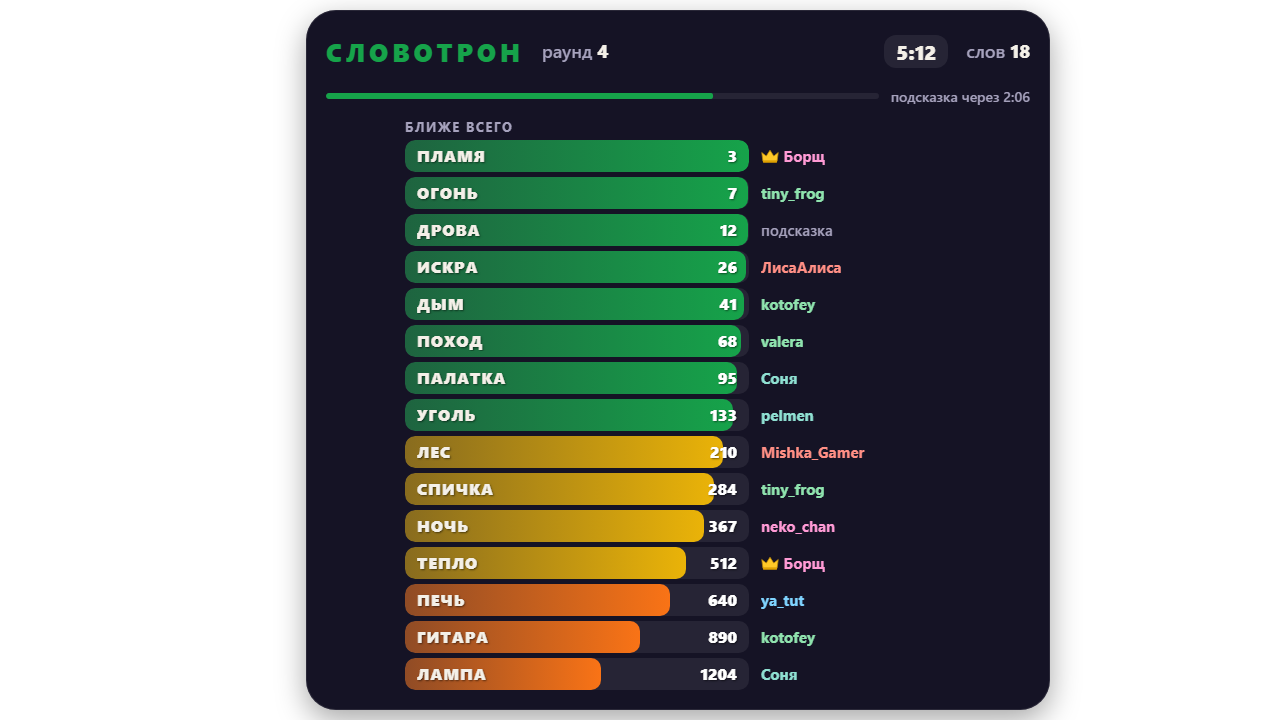
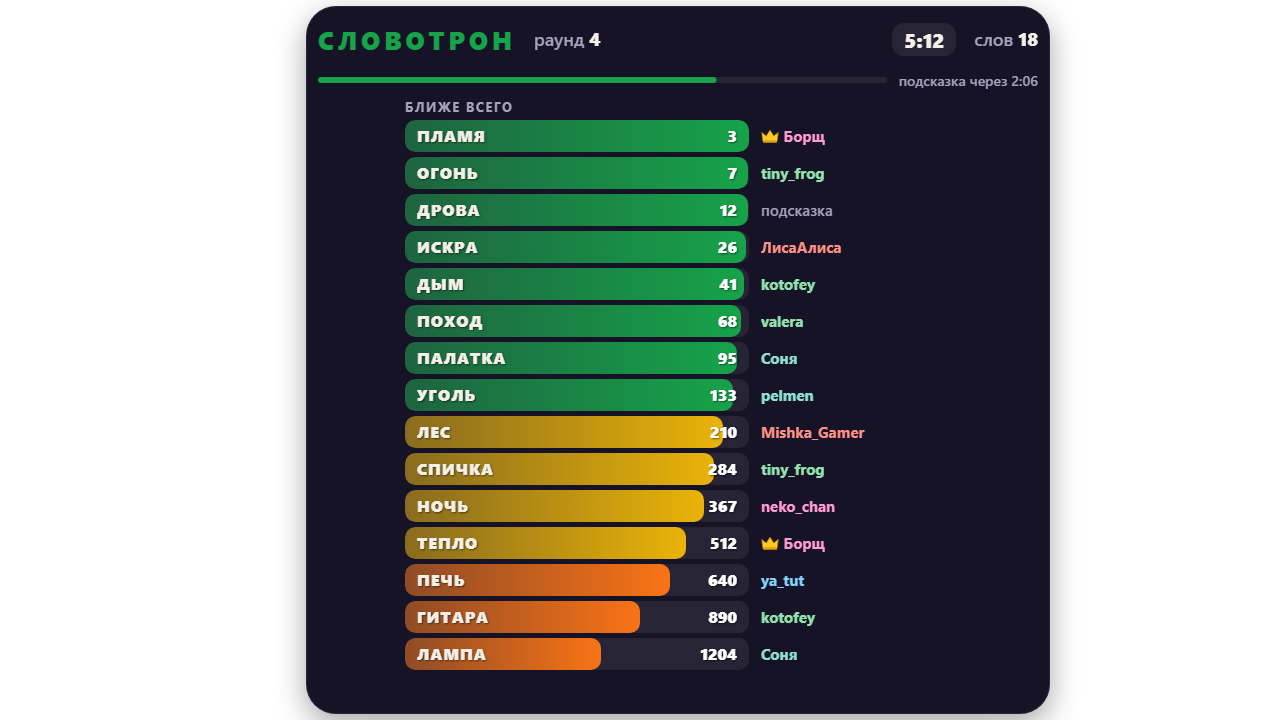
Оверлей: фон до краёв, окошко под вебку у края и одно для всех игр, меньше отступов

Changed region(s): [[0.25, 0.0, 0.8125, 1.0]]

diff --git a/site/css/overlay.css b/site/css/overlay.css
@@ -2,6 +2,7 @@
   --accent: #16a34a;
   --accent-ink: #fff;
   --card: #151325;
+  --backdrop: #0c0a16;
   --line: rgba(255, 255, 255, .09);
   --ink: #f4f0e8;
   --muted: #a6a2bd;
@@ -29,8 +30,8 @@ body {
 }
 
 .card {
-  position: absolute; inset: 10px; z-index: 0; padding: 18px 20px;
-  display: grid; gap: 14px 16px;
+  position: absolute; inset: 6px; z-index: 0; padding: 10px 12px;
+  display: grid; gap: 8px 20px;
   grid-template: "chat main side" minmax(0, 1fr) "cam main side" 210px / 280px minmax(0, 1fr) 204px;
   border-radius: 30px; overflow: hidden;
   box-shadow: 0 10px 30px rgba(0, 0, 0, .35);
@@ -39,6 +40,14 @@ body {
   content: ""; position: absolute; inset: 0; border-radius: inherit; pointer-events: none;
   box-shadow: inset 0 0 0 1px var(--line);
 }
+#stage::before {
+  content: ""; position: absolute; left: 18px; top: 494px; z-index: -1; width: 280px; height: 210px;
+  border-radius: 18px; box-shadow: 0 0 0 1400px var(--backdrop); clip-path: inset(-494px -982px -16px -18px);
+}
+.nocam #stage::before {
+  inset: 0; width: auto; height: auto; border-radius: 0; box-shadow: none; background: var(--backdrop);
+}
+.nochat #stage::before, .noside #stage::before, .nobg #stage::before { display: none; }
 
 .cam { grid-area: cam; position: relative; z-index: -1; border-radius: 18px; box-shadow: 0 0 0 2000px var(--card); }
 .cam::after {
@@ -67,7 +76,7 @@ body {
 
 .confetti { position: absolute; left: 0; top: 0; z-index: 2; width: 100%; height: 100%; pointer-events: none; }
 
-.main { grid-area: main; min-width: 0; min-height: 0; display: flex; flex-direction: column; gap: 12px; }
+.main { grid-area: main; min-width: 0; min-height: 0; display: flex; flex-direction: column; gap: 8px; }
 
 .head { flex: none; height: 46px; display: flex; align-items: center; gap: 18px; min-width: 0; }
 .brand { font-weight: 900; font-size: 25px; letter-spacing: .16em; text-transform: uppercase; color: var(--accent); }
@@ -86,7 +95,7 @@ body {
 .count { font-size: 18px; font-weight: 600; color: var(--muted); white-space: nowrap; }
 .count b { color: var(--ink); font-weight: 800; font-variant-numeric: tabular-nums; }
 
-.play { flex: 1; min-height: 0; display: flex; flex-direction: column; gap: 12px; }
+.play { flex: 1; min-height: 0; display: flex; flex-direction: column; gap: 8px; }
 .play.enter { animation: play-in .55s cubic-bezier(.2, .9, .3, 1); }
 @keyframes play-in { from { opacity: 0; transform: translateY(16px) scale(.97); } }
 
@@ -243,7 +252,7 @@ body {
 .boards ol li.note { font-size: 16px; }
 
 .side {
-  grid-area: side; display: flex; flex-direction: column; justify-content: space-between; gap: 12px;
+  grid-area: side; display: flex; flex-direction: column; justify-content: space-between; gap: 8px;
   min-width: 0; min-height: 0;
 }
 #box-total { flex: none; height: 306px; }
